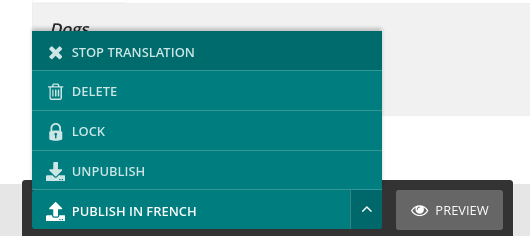
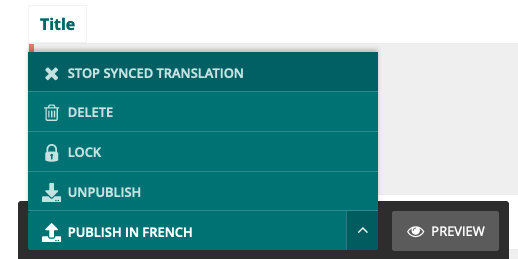
Rename "Stop/Restart translation" to "Stop/Restart Synced translation"

Changed region(s): [[0.0, 0.0593, 1.0, 1.0]]

diff --git a/wagtail_localize/static_src/editor/components/TranslationEditor/footer.tsx b/wagtail_localize/static_src/editor/components/TranslationEditor/footer.tsx
@@ -22,10 +22,10 @@ const EditorFooter: FunctionComponent<EditorProps> = ({
             <button
                 type="submit"
                 className="button action-secondary"
-                aria-label={gettext('Stop translation')}
+                aria-label={gettext('Stop Synced translation')}
             >
                 <Icon name="cross" />
-                {gettext('Stop translation')}
+                {gettext('Stop Synced translation')}
             </button>
         </form>
     ];

diff --git a/wagtail_localize/tests/test_edit_translation.py b/wagtail_localize/tests/test_edit_translation.py
@@ -967,14 +967,14 @@ class TestRestartTranslationButton(EditTranslationTestData, TestCase):
 
         response = self.client.get(reverse('wagtailadmin_pages:edit', args=[self.fr_page.id]))
 
-        self.assertContains(response, "Restart translation")
+        self.assertContains(response, "Start Synced translation")
 
     def test_doesnt_show_when_no_translation_for_page(self):
         self.page_translation.delete()
 
         response = self.client.get(reverse('wagtailadmin_pages:edit', args=[self.fr_page.id]))
 
-        self.assertNotContains(response, "Restart translation")
+        self.assertNotContains(response, "Start Synced translation")
 
     @unittest.skipUnless(SNIPPET_RESTART_TRANSLATION_ENABLED, "wagtail.snippets.action_menu module doesn't exist. See: https://github.com/wagtail/wagtail/pull/6384")
     def test_snippet(self):
@@ -983,7 +983,7 @@ class TestRestartTranslationButton(EditTranslationTestData, TestCase):
 
         response = self.client.get(reverse('wagtailsnippets:edit', args=[TestSnippet._meta.app_label, TestSnippet._meta.model_name, self.fr_snippet.id]))
 
-        self.assertContains(response, "Restart translation")
+        self.assertContains(response, "Start Synced translation")
 
     @unittest.skipUnless(SNIPPET_RESTART_TRANSLATION_ENABLED, "wagtail.snippets.action_menu module doesn't exist. See: https://github.com/wagtail/wagtail/pull/6384")
     def test_doesnt_show_when_no_translation_for_snippet(self):
@@ -991,12 +991,12 @@ class TestRestartTranslationButton(EditTranslationTestData, TestCase):
 
         response = self.client.get(reverse('wagtailsnippets:edit', args=[TestSnippet._meta.app_label, TestSnippet._meta.model_name, self.fr_snippet.id]))
 
-        self.assertNotContains(response, "Restart translation")
+        self.assertNotContains(response, "Start Synced translation")
 
     @unittest.skipUnless(SNIPPET_RESTART_TRANSLATION_ENABLED, "wagtail.snippets.action_menu module doesn't exist. See: https://github.com/wagtail/wagtail/pull/6384")
     def test_doesnt_show_on_create_for_snippet(self):
         response = self.client.get(reverse('wagtailsnippets:add', args=[TestSnippet._meta.app_label, TestSnippet._meta.model_name]))
-        self.assertNotContains(response, "Restart translation")
+        self.assertNotContains(response, "Start Synced translation")
 
     @unittest.skipUnless(SNIPPET_RESTART_TRANSLATION_ENABLED, "wagtail.snippets.action_menu module doesn't exist. See: https://github.com/wagtail/wagtail/pull/6384")
     def test_doesnt_show_for_untranslatable_snippet(self):
@@ -1004,7 +1004,7 @@ class TestRestartTranslationButton(EditTranslationTestData, TestCase):
             field="Test"
         )
         response = self.client.get(reverse('wagtailsnippets:edit', args=[NonTranslatableSnippet._meta.app_label, NonTranslatableSnippet._meta.model_name, snippet.id]))
-        self.assertNotContains(response, "Restart translation")
+        self.assertNotContains(response, "Start Synced translation")
 
 
 @freeze_time('2020-08-21')

diff --git a/wagtail_localize/wagtail_hooks.py b/wagtail_localize/wagtail_hooks.py
@@ -133,7 +133,7 @@ def before_edit_page(request, page):
     if page.alias_of and page.alias_of.locale_id != page.locale_id:
         return edit_translation.edit_translatable_alias_page(request, page)
 
-    # Check if the user has clicked the "Restart Translation" menu item
+    # Check if the user has clicked the "Start Synced translation" menu item
     if request.method == 'POST' and 'localize-restart-translation' in request.POST:
         try:
             translation = Translation.objects.get(source__object_id=page.translation_key, target_locale_id=page.locale_id, enabled=False)
@@ -152,7 +152,7 @@ def before_edit_page(request, page):
 
 
 class RestartTranslationPageActionMenuItem(PageActionMenuItem):
-    label = gettext_lazy("Restart translation")
+    label = gettext_lazy("Start Synced translation")
     name = "localize-restart-translation"
     icon_name = "undo"
     classname = 'action-secondary'
@@ -177,7 +177,7 @@ def register_restart_translation_page_action_menu_item():
 @hooks.register("before_edit_snippet")
 def before_edit_snippet(request, instance):
     if isinstance(instance, TranslatableMixin):
-        # Check if the user has clicked the "Restart Translation" menu item
+        # Check if the user has clicked the "Start Synced translation" menu item
         if request.method == 'POST' and 'localize-restart-translation' in request.POST:
             try:
                 translation = Translation.objects.get(source__object_id=instance.translation_key, target_locale_id=instance.locale_id, enabled=False)
@@ -197,7 +197,7 @@ def before_edit_snippet(request, instance):
 
 if SNIPPET_RESTART_TRANSLATION_ENABLED:
     class RestartTranslationSnippetActionMenuItem(SnippetActionMenuItem):
-        label = gettext_lazy("Restart translation")
+        label = gettext_lazy("Start Synced translation")
         name = "localize-restart-translation"
         icon_name = "undo"
         classname = 'action-secondary'

diff --git a/docs/tutorial/3-content.md b/docs/tutorial/3-content.md
@@ -193,7 +193,7 @@ Clicking "Edit" here will take the user to the translation editor of the "Dogs" 
 !!! note "Stopping translation mode"
 
     If you would like to make significant changes to the translation, you can strop the translation mode by clicking the
-    "Stop translation" action in the action menu at the bottom:
+    "Stop Synced translation" action in the action menu at the bottom:
 
     ![Stop translation button in action menu](/_static/tutorial/wagtail-stop-translation.png)
 
@@ -201,7 +201,7 @@ Clicking "Edit" here will take the user to the translation editor of the "Dogs" 
     original, so you can still use the language switcher at the top of the page to find the original page and other
     translations.
 
-    You can restart translation mode later by clicking "Restart Translation" in the action menu. This will override any
+    You can restart translation mode later by clicking "Start Synced translation" in the action menu. This will override any
     changes made while translation mode was stopped.
 
     While translation mode is stopped, editors will need to synchronise any content updates from the source manually.
